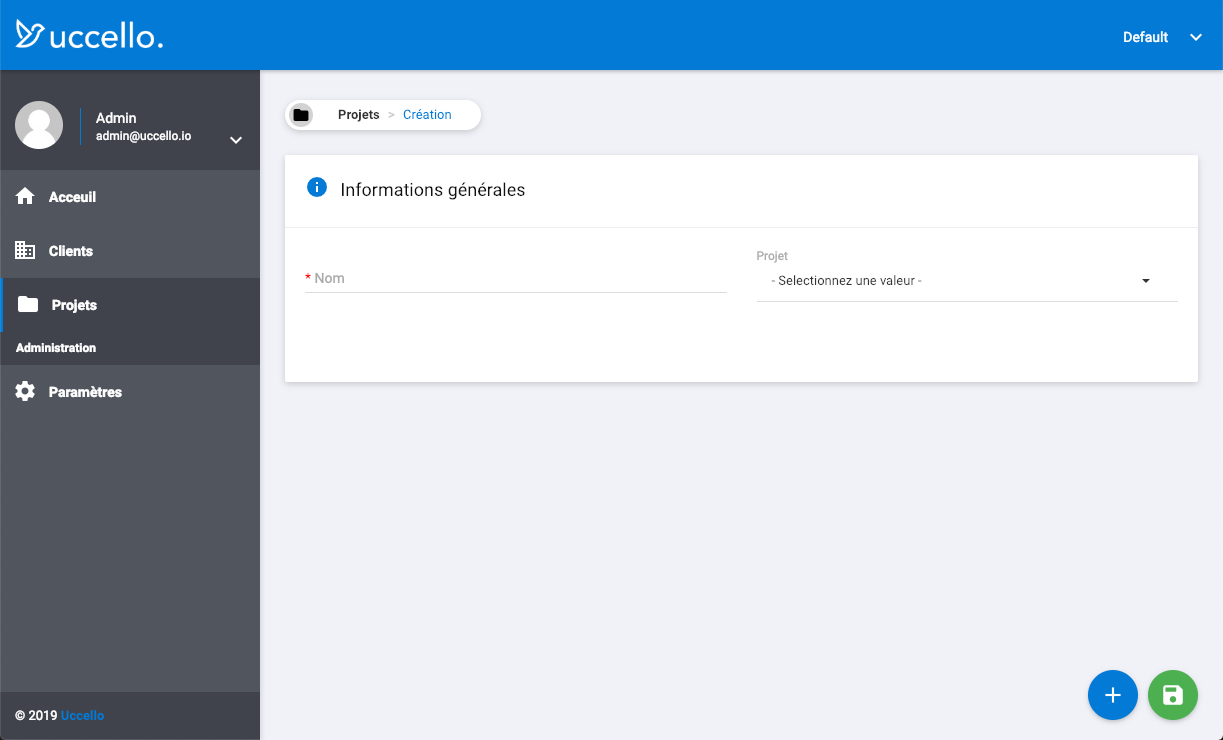
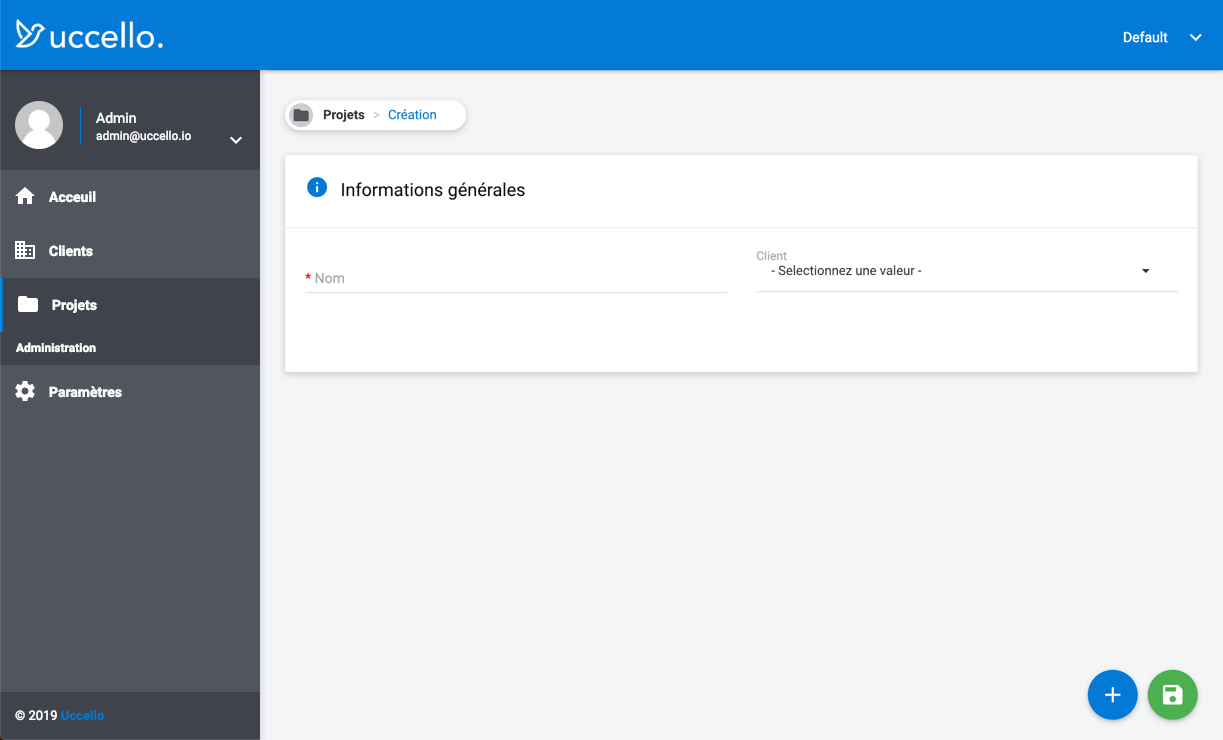
doc(tutorial): Adds steps to Clockify tutorial

diff --git a/doc/fr/tutorial/clockify/custom-interface.md b/doc/fr/tutorial/clockify/custom-interface.md
@@ -6,3 +6,215 @@ Nous allons voir dans ce tutoriel comment créer un outil de **gestion du temps 
 
 ## Étape 3 - Personnaliser l'interface
 
+Dans le module **Session de travail**, nous allons modifier le comportement de la page **Liste** pour ouvrir une fenêtre modale lorsqu'on clique sur le bouton `+` , plutôt que de rediriger sur la vue **Édition**. Pour cela nous allons utiliser le principe de la [surcharge de vue](../../overriding/view.md).
+
+Voici le résultat que nous voulons obtenir :
+
+![Modale](/Users/jonathan/Downloads/override-show-modal.jpg)
+
+
+
+### Surcharger la vue
+
+Pour modifier le comportement de la vue **Liste**, nous devons créer le fichier `resources/views/modules/working-session/list/main.blade.php`. Uccello va détecter automatiquement que la vue a été surchargée et c'est celle-ci qui sera utilisée pour le module **Session de travail**.
+
+```php+HTML
+<!-- resources/views/modules/working-session/list/main.blade.php -->
+@extends('uccello::modules.default.list.main')
+
+@section('page-action-buttons')
+    {{-- Create button --}}
+    @if (Auth::user()->canCreate($domain, $module))
+    <div id="page-action-buttons">
+        <a class="btn btn-success btn-circle-lg waves-effect waves-circle waves-float"
+            title="{{ uctrans('button.new', $module) }}"
+            data-toggle="tooltip"
+            data-placement="top"
+            data-config='{"actionType":"modal", "modal":"#addSessionModal"}'>
+            <i class="material-icons">add</i>
+        </a>
+    </div>
+    @endif
+@endsection
+
+@section('extra-content')
+    {{-- Add filter modal --}}
+    @include("uccello::modules.default.list.modal.add-filter")
+
+    {{-- Add session modal --}}
+    @include("modules.working-session.list.modal.add-session")
+@endsection
+```
+
+#### Utilisation de la vue par défaut
+
+On étend la vue Liste par défaut pour pouvoir la surcharger.
+
+```
+@extends('uccello::modules.default.list.main')
+```
+
+#### Modification du comportement du bouton
+
+On surcharge la section `page-action-buttons` pour modifier le comportement du bouton d'ajout.
+
+```php+HTML
+<!-- resources/views/modules/working-session/list/main.blade.php -->
+@section('page-action-buttons')
+    {{-- Create button --}}
+    @if (Auth::user()->canCreate($domain, $module))
+    <div id="page-action-buttons">
+        <a class="btn btn-success btn-circle-lg waves-effect waves-circle waves-float"
+            title="{{ uctrans('button.new', $module) }}"
+            data-toggle="tooltip"
+            data-placement="top"
+            data-config='{"actionType":"modal", "modal":"#addSessionModal"}'>
+            <i class="material-icons">add</i>
+        </a>
+    </div>
+    @endif
+@endsection
+```
+
+Voici à quoi ressemble cette section sur la **vue par défaut** utilisée par Uccello :
+
+```php+HTML
+<!-- vendor/uccello/uccello/resources/views/modules/default/list/main.blade.php -->
+@section('page-action-buttons')
+    {{-- Create button --}}
+    @if (Auth::user()->canCreate($domain, $module))
+    <div id="page-action-buttons">
+        <a href="{{ ucroute('uccello.edit', $domain, $module) }}"
+           class="btn btn-success btn-circle-lg waves-effect waves-circle waves-float"
+           title="{{ uctrans('button.new', $module) }}"
+           data-toggle="tooltip"
+           data-placement="top">
+            <i class="material-icons">add</i>
+        </a>
+    </div>
+    @endif
+@show
+```
+
+On a supprimé l'attribut `href`, car on n'a plus besoin de lien vers la page Édition.
+
+On a rajouté l'attribut `data-config` pour qu'Uccello détecte automatiquement qu'il faut ouvir une **fenêtre modale**.
+
+```
+data-config='{"actionType":"modal", "modal":"#addSessionModal"}'
+```
+
+- `"actionType":"modal"` - On veut ouvrir une fenêtre modale lors du clic sur le bouton
+- `"modal":"#addSessionModal" ` - L'identifiant de la `div` contenant la modale est `id="addSessionModal"`
+
+Grâce à cette instruction, Uccello pourra ouvrir automatiquement une fenêtre modale lors d'un clic sur le bouton `+`. 
+
+#### Configuration de la fenêtre modale
+
+On surcharge la section `extra-content` pour ajouter le code de la fenêtre modale.
+
+```php+HTML
+<!-- resources/views/modules/working-session/list/main.blade.php -->
+@section('extra-content')
+    {{-- Add filter modal --}}
+    @include("uccello::modules.default.list.modal.add-filter")
+
+    {{-- Add session modal --}}
+    @include("modules.working-session.list.modal.add-session")
+@endsection
+```
+
+ Voici à quoi ressemble cette section sur la **vue par défaut** utilisée par Uccello :
+
+```php+HTML
+<!-- vendor/uccello/uccello/resources/views/modules/default/list/main.blade.php -->
+@section('extra-content')
+    {{-- Add filter modal --}}
+    @include("uccello::modules.default.list.modal.add-filter")
+@endsection
+```
+
+Nous devons donc créer le fichier `resources/views/modules/working-session/list/modal/add-session.blade.php`.
+
+```php+HTML
+<!-- resources/views/modules/working-session/list/modal/add-session.blade.php -->
+<div class="modal fade" id="addSessionModal" tabindex="-1" role="dialog">
+    <div class="modal-dialog" role="document">
+        <div class="modal-content">
+            <div class="modal-header">
+                <h4>
+                    <div class="block-label-with-icon">
+                        <i class="material-icons">timer</i>
+                        <span>{{ uctrans('modal.add_session.title', $module) }}</span>
+                    </div>
+                    <small>{{ uctrans('modal.add_session.description', $module) }}</small>
+                </h4>
+            </div>
+            <div class="modal-body">
+                <div class="row clearfix">
+                    {{-- Description --}}
+                    <div class="col-sm-8">
+                        <div class="form-group form-float">
+                            <div class="input-field">
+                                <div class="form-line">
+                                    <label class="form-label">{{ uctrans('field.description', $module) }}</label>
+                                    <input class="form-control" id="session_description" name="session_description" type="text">
+                                </div>
+                            </div>
+                        </div>
+                    </div>
+                    {{-- Project --}}
+                    <div class="col-sm-4">
+                        <div class="form-group form-choice">
+                            <label class="form-label">{{ uctrans('field.project', $module) }}</label>
+                            <div class="input-field">
+                                <select class="form-control" id="session_project" name="session_project">
+                                    <option value="">&nbsp;</option>
+                                    @foreach (App\Project::all() as $project)
+                                        <option value="{{ $project->id }}">{{ $project->name }}</option>
+                                    @endforeach
+                                </select>
+                            </div>
+                        </div>
+                    </div>
+                </div>
+
+                <div class="row">
+                    <div class="col-md-12 text-center">
+                        <a class="btn bg-green btn-circle-lg waves-effect waves-circle waves-float">
+                            <i class="material-icons">play_arrow</i>
+                        </a>
+                        <span class="m-l-15 timer">00:00:00</span>
+                    </div>
+                </div>
+            </div>
+            <div class="modal-footer">
+                <button type="button" class="btn btn-link waves-effect" data-dismiss="modal">{{ uctrans('button.close', $module) }}</button>
+            </div>
+        </div>
+    </div>
+</div>
+```
+
+#### Ajout des traductions
+
+Nous devons modifier le fichier `resources/lang/fr/working-session.php` et ajouter les traductions suivantes :
+
+```php
+// resources/lang/fr/working-session.php
+return [
+...
+    // Button
+    'button.close' => 'Fermer',
+
+    // Modal
+    'modal.add_session.title' => 'Session de travail',
+    'modal.add_session.description' => 'Lancez le chronomètre pour créer facilement une nouvelle session de travail.',
+];
+```
+
+## Étape 4 - Un peu de JavaScript
+
+Maintenant que la fenêtre modale s'affiche correctement, nous devons configurer son **comportement** lorsqu'on lance et arrêtre le **chronomètre**.
+
+Nous verrons comment faire cela dans [la suite du tutoriel](./javascript.md).

diff --git a/doc/fr/Introduction.md b/doc/fr/Introduction.md
@@ -35,7 +35,7 @@ Découvrez comment créer facilement avec Uccello, **l'application qui fera déc
   - Contrôleurs par défaut
   - Créer de nouvelles routes
 - Surcharge
-  - Vue
+  - [Vue](./overriding/vue.md)
   - Contrôleur
   - Traductions
 - Events
@@ -52,5 +52,6 @@ Découvrez comment créer facilement avec Uccello, **l'application qui fera déc
 - Tutoriel (Clockify)
   - [Création des modules](./tutorial/clockify/get-started.md)
   - [Personnalisation de l'interface](./tutorial/clockify/custom-interface.md)
-  - Un peu de JavaScript
+  - [Un peu de JavaScript](./tutorial/clockify/javascript.md)
+  - Ajout d'un Widget
 

diff --git a/doc/fr/tutorial/clockify/get-started.md b/doc/fr/tutorial/clockify/get-started.md
@@ -588,7 +588,7 @@ What is the module name? (e.g. book-type):
  Would you like to repeat this field (for confirmation)? (yes/no) [no]:
  >
 
- # Champ Projet
+ # Champ Client
  What action do you want to perform? [Add a field]:
   [1] Add a tab
   [2] Add a block
@@ -606,10 +606,10 @@ What is the module name? (e.g. book-type):
  >
 
  Field name:
- > project
+ > client
 
  Translation [fr]:
- > Projet
+ > Client
 
  Choose an uitype [text]:
   [0 ] boolean

diff --git a/doc/fr/tutorial/clockify/javascript.md b/doc/fr/tutorial/clockify/javascript.md
@@ -1,0 +1,8 @@
+# Tutoriel - Gestion du temps de travail
+
+Nous allons voir dans ce tutoriel comment créer un outil de **gestion du temps de travail** comme ce que propose [Clockify](https://clockify.me).
+
+> Pour suivre les **étapes précédentes**, merci de vous rendre au [début du tutoriel](./get-started.md) ou à [l'étape précédente](./custom-interface.md).
+
+## Étape 4 - Un peu de JavaScript
+

diff --git a/doc/fr/overriding/view.md b/doc/fr/overriding/view.md
@@ -1,0 +1,3 @@
+# Surchage de vue
+
+Documentation à venir...
